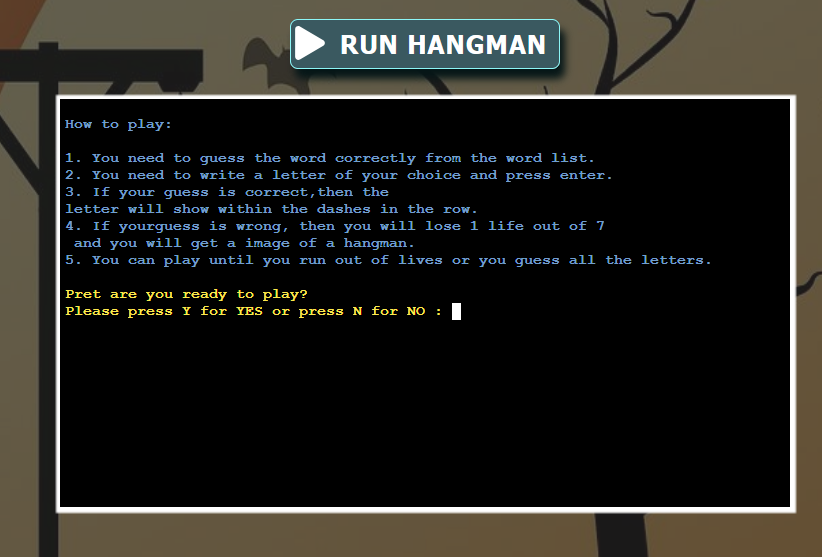
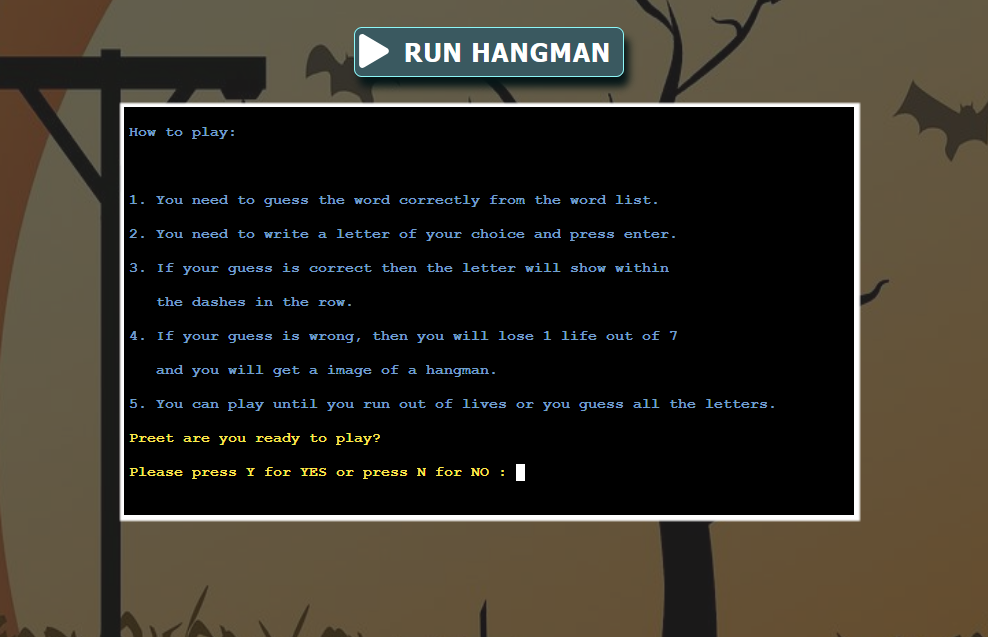
Change instruction style to come lines on by one

diff --git a/run.py b/run.py
@@ -81,7 +81,6 @@ class Start(ClearDisplay):
             print("\033[1;34m")
             hangman_ascii_text()
             time.sleep(0.5)
-            self.clear_terminal()
             self.random_word()
 
     def game_instruction(self):
@@ -252,9 +251,10 @@ class Start(ClearDisplay):
                                  "Guess a letter or word: ").upper()
             self.clear_terminal()
             letter.append(letter_guess)
+            no_repeat_letter = list(dict.fromkeys(letter))
             print(
                 Fore.BLUE + Style.BRIGHT +
-                "You used these letters: " + ", ".join(letter))
+                "You used these letters: " + ", ".join(no_repeat_letter))
             print("\n")
             if len(letter_guess) == 1 and letter_guess.isalpha():
                 if letter_guess in word_guess_letter:
@@ -311,6 +311,7 @@ class Start(ClearDisplay):
             print(words_complete)
             print("\n")
         if word_guess:
+            no_repeat_letter = ''
             print(
                   Fore.GREEN + Style.BRIGHT + "Congratulations!,",
                   NAME.capitalize(),
@@ -318,6 +319,7 @@ class Start(ClearDisplay):
                   Fore.BLUE,)
             print("\n")
         else:
+            no_repeat_letter = ''
             print(
                 Fore.BLUE + Style.BRIGHT + "Sorry,",
                 NAME.capitalize(),
@@ -326,7 +328,6 @@ class Start(ClearDisplay):
                 ". Better luck next time !",
             )
             print("\n")
-            self.clear_terminal()
         self.playgame_again()
 
 

diff --git a/README.md b/README.md
@@ -119,7 +119,7 @@ This is my 3rd project at code institute. I developed hangman the word game, whi
   ***All the images are found*** [here](assets/game-screenshot/screenshot.md)
 
 #### Play again :
-* Users will get the play again option whether they win or lose. If they select Y they the game will restart with a new word. If they select N then they will get a message saying “thanks for playing see you again” with a big goodbye title after this they will exit the game.
+* Users will get the play again option whether they win or lose. If they select Y they the game will restart with a new word. If they select N then they will get a menu option.
 
   ***All the images are found*** [here](assets/game-screenshot/screenshot.md)
 
@@ -128,8 +128,7 @@ This game is following this flow diagram:
 ![](assets/readme-files/diagram.png)
 
 ## Bugs
-* The first bug I was having issues with was getting a random word every time. The reason I had this bug was because my code was not using loop to cycle through the word list cells in gspread sheet.
-* I solved this problem with the help of stack overflow.
+* The first bug I was having issues with was getting a random word every time. The reason I had this bug was because my code was not using loop to cycle through the word list cells in google spread sheet.I solved this problem with the help of stack overflow.
 
 
 
@@ -144,7 +143,7 @@ This game is following this flow diagram:
 [Go Top](#Hangman-Game)
 
 ## Other Features
-* I used gspread sheet for the word list, because if you import your word list file to the terminal, then the user can see the word list. I developed the game in this way to make the game interesting and challenging.
+* I used google spread sheet for the word list, because if you import your word list file to the terminal, then the user can see the word list. I developed the game in this way to make the game interesting and challenging.
 * I imported OS into the python terminal to clear the terminal of the previous text according to the next option.
 * I imported Time into the terminal to add a delay during the game in between the user selecting an option and the next option being displayed. For example, I added time for the phrases (wait…) and (game loading…) as it gives a nice effect in a terminal game.
 * The entered username is saved in the terminal, because when the user replays the game after either winning or losing in the same session his name will not need to be re-entered unless they exit the game.

diff --git a/assets/test-file/testings.md b/assets/test-file/testings.md
@@ -29,7 +29,7 @@ The second option provided is for new players who are not familiar with the game
 * Another function I have added to the game to make it more user-friendly is to see all the previously guessed letters. This ensures that the player has a smooth gaming experience and does not select the same letters as before although if they do this I have added a function where a message appears in red informing them that they have already used this letter before.
 
 4. As a new player, I want this game to be challenging therefore I do not want access to the word list.
-* For new players, I added all the words in gspread sheet and linked it with creds.
+* For new players, I added all the words in google spread sheet and linked it with creds.
 * I have added this function to make the game more challenging and to prevent the player from cheating by opening the word list page because this is not possible when the words are linked using gspread sheet as I have done in the development of my game.
 
 #### Current players Goals:
